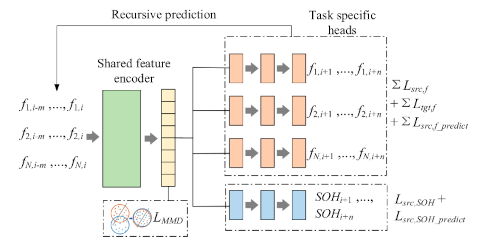
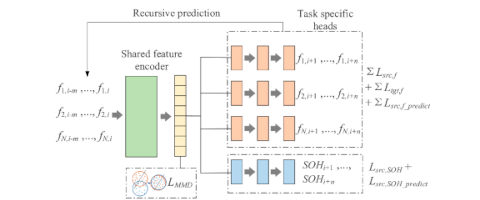
Fix paper images size

diff --git a/projects.md b/projects.md
@@ -42,6 +42,12 @@ layout: page
     <img class="repo-card" alt="SchindlerEPFL/thermo-nerf" src="https://github-readme-stats.vercel.app/api/pin/?username=SchindlerEPFL&amp;repo=thermo-nerf&amp;theme=default_repocard&amp;show_owner=false&amp">
 </a>
 
+### Multivariate Time Series Generation
+
+<a class="repo-link" href="https://github.com/MadaneA/MTS-CGAN" target="_blank" rel="noopener noreferrer">
+    <img class="repo-card" alt="MadaneA/MTS-CGAN" src="https://github-readme-stats.vercel.app/api/pin/?username=MadaneA&amp;repo=MTS-CGAN&amp;theme=default_repocard&amp;show_owner=false&amp">
+</a>
+
 ### Other
 
 <a class="repo-link" href="https://github.com/FlorentF9/SatelliteSimulator" target="_blank" rel="noopener noreferrer">
